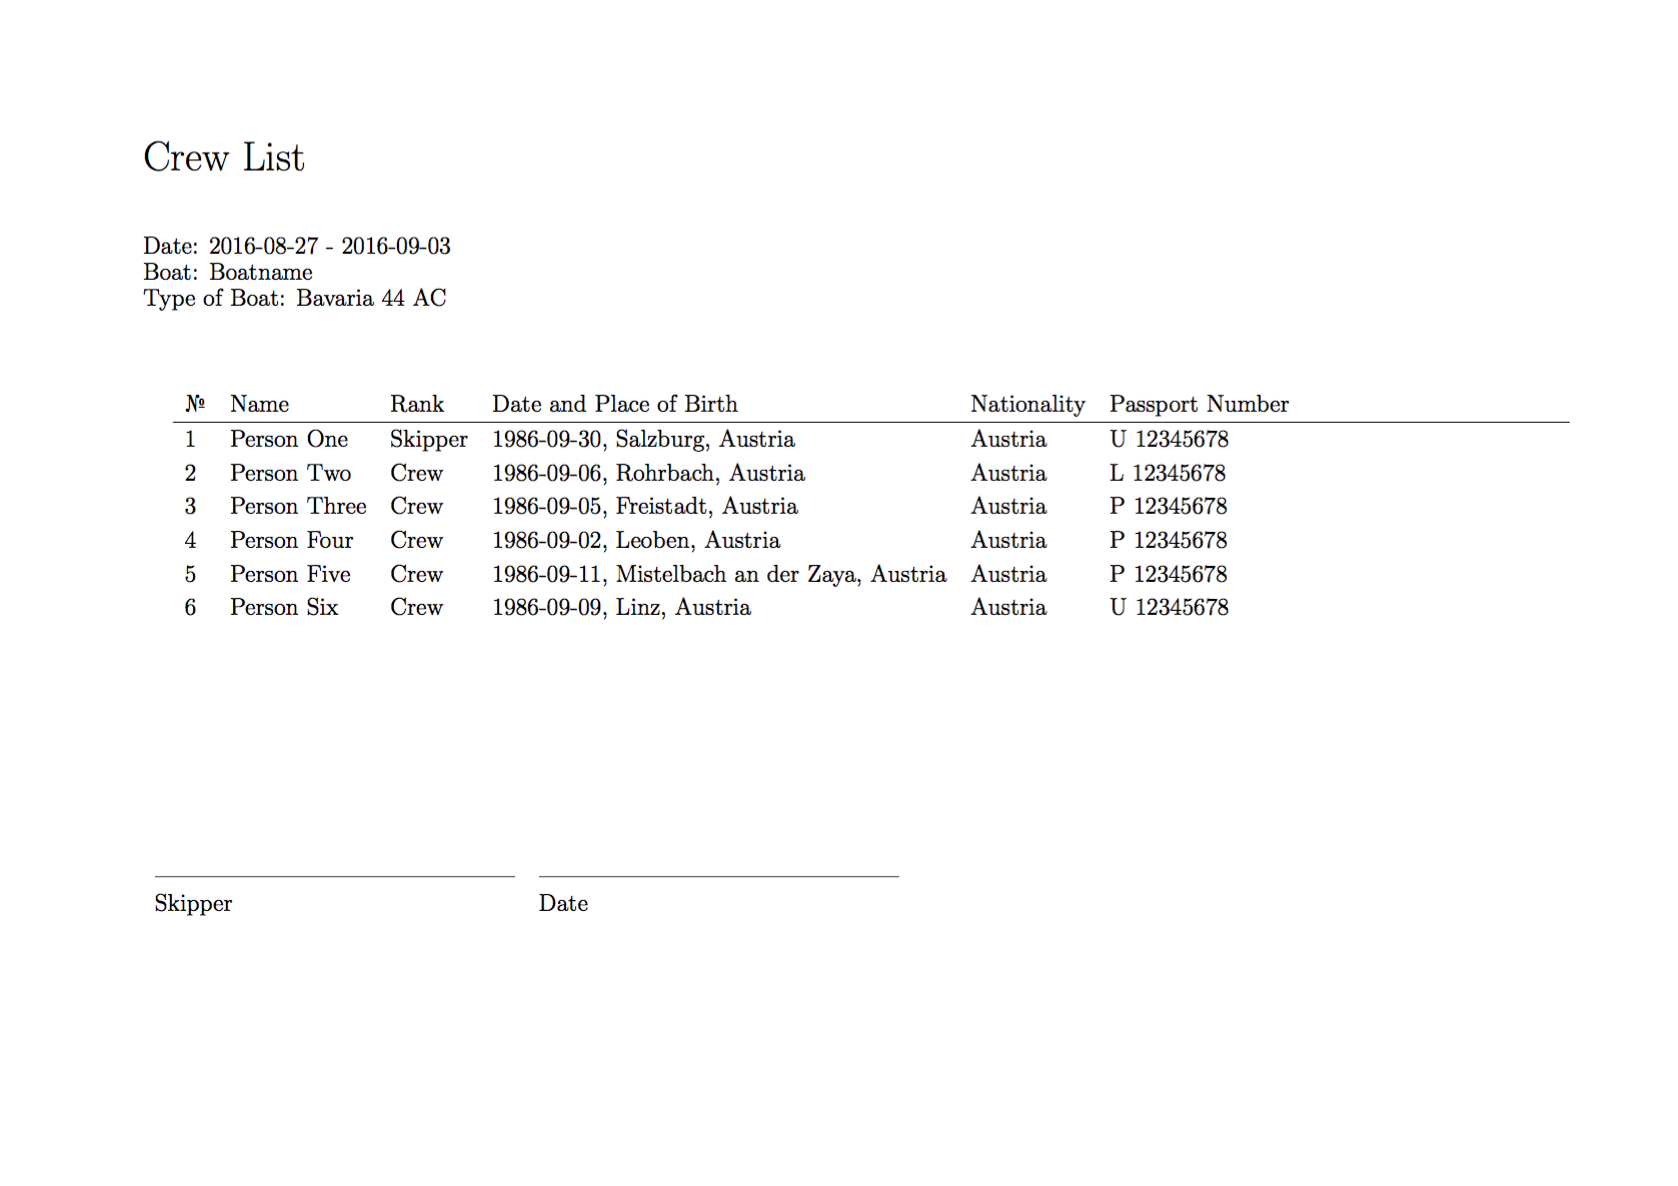
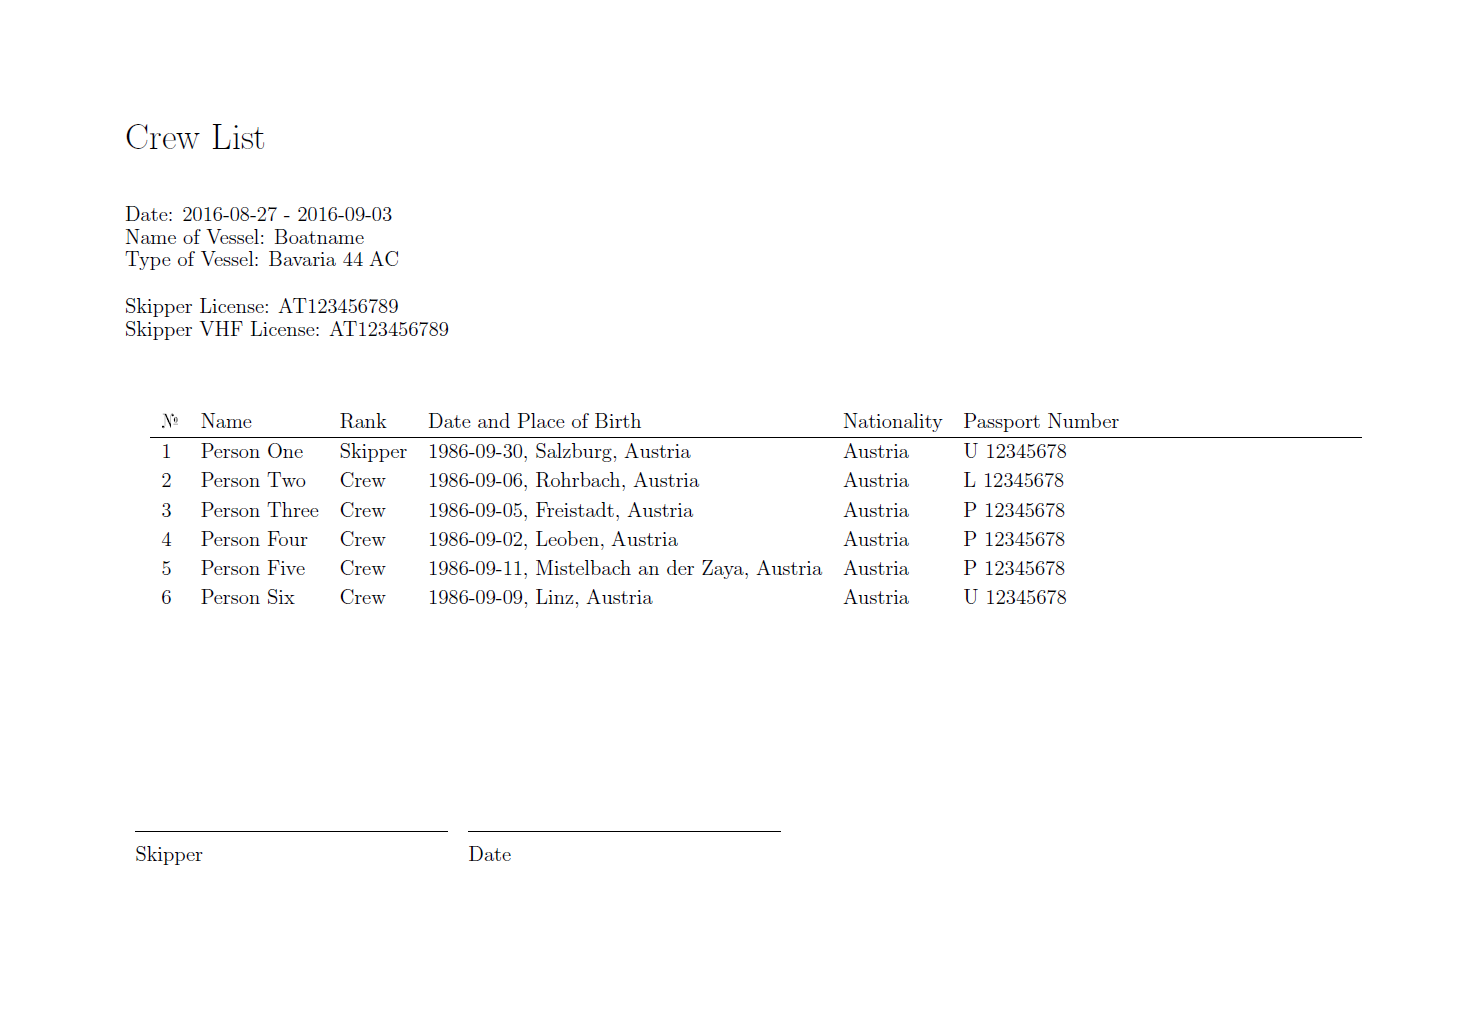
added skipper license and vhf license fields

diff --git a/crewlist.tex b/crewlist.tex
@@ -6,7 +6,7 @@
 
 \begin{document}
 
-\header{2016-08-27 - 2016-09-03}{Boatname}{Bavaria 44 AC}
+\header{2016-08-27 - 2016-09-03}{Boatname}{Bavaria 44 AC}{AT123456789}{AT123456789}
 
 \def\arraystretch{1.3}
 \begin{tabularx}{\linewidth}{llllll}
